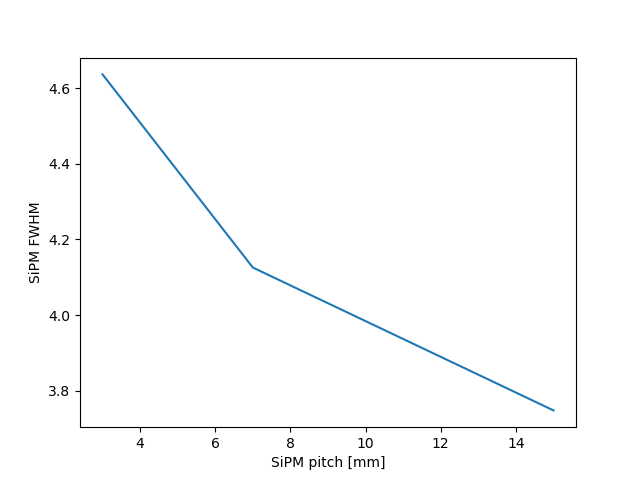
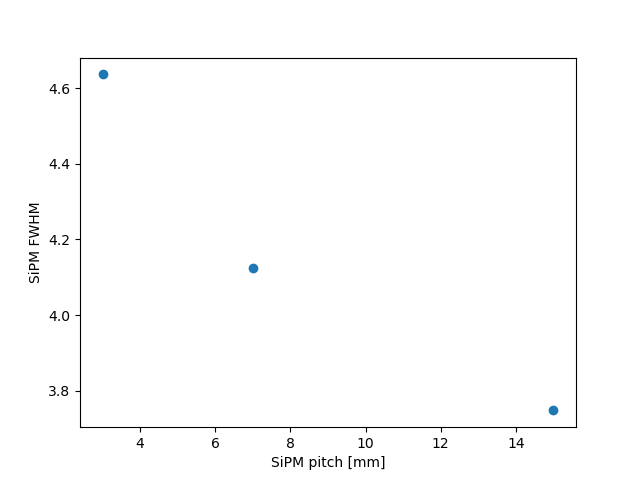
edited eres for high energy

diff --git a/sipmstudy_eres.py b/sipmstudy_eres.py
@@ -89,37 +89,39 @@ for mc in mcs:
     mc['pmt_eres'], mc['pmt_fwhm'], mc['pmt_mean'] = EnergyRes(mc['all_pmts'].charge)
     
 pitches = [mc['pitch'] for mc in mcs]
-plt.plot(pitches, [mc['sipm_eres'] for mc in mcs])
+plt.plot(pitches, [mc['sipm_eres'] for mc in mcs], 'o')
 plt.xlabel('SiPM pitch [mm]')
-plt.ylabel('SiPM Energy resolution')
+plt.ylabel(r'Eres FWHM % at $Q_{\beta \beta}')
+plt.title('SiPM Energy Resolution')
 plt.savefig(outdir+'sipm_eres.png')
 plt.close()
 
-plt.plot(pitches, [mc['pmt_eres'] for mc in mcs])
+plt.plot(pitches, [mc['pmt_eres'] for mc in mcs], 'o')
 plt.xlabel('SiPM pitch [mm]')
-plt.ylabel('PMT Energy Resolution')
+plt.title('PMT Energy Resolution')
+plt.ylabel(r'Eres FWHM % at $Q_{\beta \beta}')
 plt.savefig(outdir+'pmt_eres.png')
 plt.close()
 
-plt.plot(pitches, [mc['sipm_fwhm'] for mc in mcs])
+plt.plot(pitches, [mc['sipm_fwhm'] for mc in mcs], 'o')
 plt.xlabel('SiPM pitch [mm]')
 plt.ylabel('SiPM FWHM')
 plt.savefig(outdir+'sipm_fwhm.png')
 plt.close()
 
-plt.plot(pitches, [mc['pmt_fwhm'] for mc in mcs])
+plt.plot(pitches, [mc['pmt_fwhm'] for mc in mcs], 'o')
 plt.xlabel('SiPM pitch [mm]')
 plt.ylabel('PMT FWHM')
 plt.savefig(outdir+'pmt_fwhm.png')
 plt.close()
 
-plt.plot(pitches, [mc['sipm_mean'] for mc in mcs])
+plt.plot(pitches, [mc['sipm_mean'] for mc in mcs], 'o')
 plt.xlabel('SiPM pitch [mm]')
 plt.ylabel('SiPM Mean')
 plt.savefig(outdir+'sipm_mean.png')
 plt.close()
 
-plt.plot(pitches, [mc['pmt_mean'] for mc in mcs])
+plt.plot(pitches, [mc['pmt_mean'] for mc in mcs], 'o')
 plt.ylabel('PMT Mean')
 plt.xlabel('SiPM pitch [mm]')
 plt.savefig(outdir+'pmt_mean.png')
